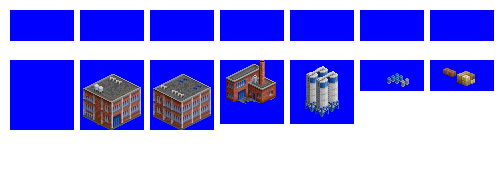
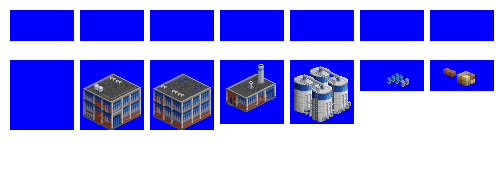
Change: further improved Tyre Factory appearance

Changed region(s): [[0.45, 0.3333, 0.72, 0.6944], [0.15, 0.5, 0.42, 0.6944]]

diff --git a/src/industries/tyre_plant.py b/src/industries/tyre_plant.py
@@ -154,7 +154,7 @@ industry.add_industry_layout(
               (1, 1, 'tyre_plant_tile_1', 'tyre_plant_spritelayout_3'),
               (1, 2, 'tyre_plant_tile_1', 'tyre_plant_spritelayout_7'),
               (1, 3, 'tyre_plant_tile_1', 'tyre_plant_spritelayout_6'),
-              (1, 4, 'tyre_plant_tile_1', 'tyre_plant_spritelayout_5'),
+              (1, 4, 'tyre_plant_tile_1', 'tyre_plant_spritelayout_3'),
               (2, 0, 'tyre_plant_tile_1', 'tyre_plant_spritelayout_3'),
               (2, 1, 'tyre_plant_tile_1', 'tyre_plant_spritelayout_1'),
               (2, 2, 'tyre_plant_tile_1', 'tyre_plant_spritelayout_2'),
@@ -175,8 +175,8 @@ industry.add_industry_layout(
               (2, 2, 'tyre_plant_tile_1', 'tyre_plant_spritelayout_6'),
               (2, 3, 'tyre_plant_tile_1', 'tyre_plant_spritelayout_6'),
               (3, 0, 'tyre_plant_tile_1', 'tyre_plant_spritelayout_4'),
-              (3, 1, 'tyre_plant_tile_1', 'tyre_plant_spritelayout_5'),
-              (3, 2, 'tyre_plant_tile_1', 'tyre_plant_spritelayout_5'),
+              (3, 1, 'tyre_plant_tile_1', 'tyre_plant_spritelayout_3'),
+              (3, 2, 'tyre_plant_tile_1', 'tyre_plant_spritelayout_3'),
               (3, 3, 'tyre_plant_tile_1', 'tyre_plant_spritelayout_5'),
     ]
 )
@@ -191,7 +191,7 @@ industry.add_industry_layout(
               (3, 1, 'tyre_plant_tile_1', 'tyre_plant_spritelayout_1'),
               (3, 2, 'tyre_plant_tile_1', 'tyre_plant_spritelayout_2'),
               (3, 3, 'tyre_plant_tile_1', 'tyre_plant_spritelayout_7'),
-              (4, 0, 'tyre_plant_tile_1', 'tyre_plant_spritelayout_5'),
+              (4, 0, 'tyre_plant_tile_1', 'tyre_plant_spritelayout_3'),
               (4, 1, 'tyre_plant_tile_1', 'tyre_plant_spritelayout_4'),
               (4, 2, 'tyre_plant_tile_1', 'tyre_plant_spritelayout_7'),
               (4, 3, 'tyre_plant_tile_1', 'tyre_plant_spritelayout_6'),
